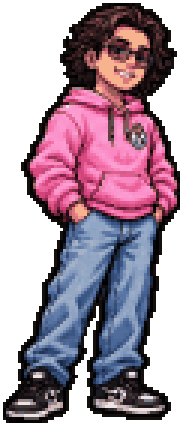
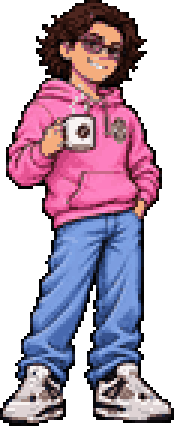
TLs pixel: nuevo Angelo y Jorge

diff --git a/index.html b/index.html
@@ -116,7 +116,7 @@
       </li>
       <li class="vow p-azul">
         <span class="vow__kid vow__kid--stand crew__kid p-tl" tabindex="0" aria-label="Angelo, Team Leader">
-        <img src="assets/pixel/tl-angelo.png" width="183" height="426" alt="">
+        <img src="assets/pixel/tl-angelo.png" width="174" height="426" alt="">
         <span class="crew__tag" aria-hidden="true">Angelo · TL</span>
         </span>
         <div class="vow__card">
@@ -156,7 +156,7 @@
       </li>
       <li class="vow p-azul">
         <span class="vow__kid vow__kid--stand crew__kid p-tl" tabindex="0" aria-label="Jorge, Team Leader">
-        <img src="assets/pixel/tl.png" width="184" height="420" alt="">
+        <img src="assets/pixel/tl.png" width="186" height="426" alt="">
         <span class="crew__tag" aria-hidden="true">Jorge · TL</span>
         </span>
         <div class="vow__card">
